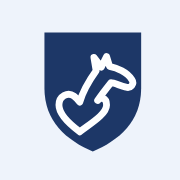
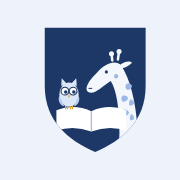
New crest: owl and giraffe studying a book together on a navy shield
Replaces the heart/one-line giraffe design entirely.
- public/crest.svg (shown in the header via Logo.tsx), public/logo.svg (crest + wordmark)
- Favicon and apple icon: same scene without the star and page lines

Claude-Session: https://claude.ai/code/session_01GjeEBdYYyQFWaafFuKonbj

diff --git a/app/components/Logo.tsx b/app/components/Logo.tsx
@@ -1,51 +1,9 @@
+import Image from "next/image";
+
 /**
- * The app's crest: a navy shield with a one-line giraffe (its neck flows into a heart)
- * and a small owl perched against its neck. Empathy and learning, university style.
- * Colours are fixed (navy shield), so it reads the same in light and dark mode.
+ * The app's crest: a navy university shield where an owl and a giraffe study an open book together.
+ * The artwork lives in public/crest.svg (full logo with wordmark: public/logo.svg).
  */
-export default function Logo({ className = "h-10 w-auto" }: { className?: string }) {
-  return (
-    <svg viewBox="0 0 120 140" className={className} aria-hidden>
-      <path d="M8 8 H112 V68 C112 104 88 124 60 136 C32 124 8 104 8 68 Z" fill="#1d3767" />
-      <path
-        d="M14 14 H106 V68 C106 100 84 118 60 129 C36 118 14 100 14 68 Z"
-        fill="none"
-        stroke="#9db8e6"
-        strokeWidth={1.4}
-      />
-      <g
-        transform="translate(18 32.8) scale(1.4)"
-        fill="none"
-        stroke="#ffffff"
-        strokeWidth={2.9}
-        strokeLinecap="round"
-        strokeLinejoin="round"
-      >
-        <path d="M20 58 C12 52 6 46 6 40 C6 34 12 31 16 34 C18 35.5 20 38 20 38 C22 31 26 24 31 17 C31 11 31 8 32 6 C33 4 36 5 35 8 C34.5 10 35 12 36 13 C37 10 38 7 40 7 C42 7 42 10 40 13 C45 14 52 18 55 23 C57 26 54 29 51 28 C47 27 43 25 41 25 C37 30 34 34 32 37 C34 34.5 38 35 38 40 C38 46 28 52 20 58" />
-        <circle cx="43" cy="18" r="1.5" fill="#ffffff" stroke="none" />
-      </g>
-      <g transform="translate(48.5 58)">
-        <path d="M-7 -9 L-6.5 -16 L-2 -11 Z M7 -9 L6.5 -16 L2 -11 Z" fill="#dbe7f8" />
-        <ellipse cx="0" cy="0" rx="9" ry="11.5" fill="#dbe7f8" />
-        <circle cx="-3.9" cy="-3.2" r="3.7" fill="#ffffff" stroke="#1d3767" strokeWidth={1.1} />
-        <circle cx="3.9" cy="-3.2" r="3.7" fill="#ffffff" stroke="#1d3767" strokeWidth={1.1} />
-        <circle cx="-3.6" cy="-3" r="1.6" fill="#1d3767" />
-        <circle cx="3.6" cy="-3" r="1.6" fill="#1d3767" />
-        <path d="M-1.3 0.6 L1.3 0.6 L0 3.4 Z" fill="#1d3767" />
-        <path
-          d="M-4 5 Q0 8 4 5 M-3 8.2 Q0 10.6 3 8.2"
-          fill="none"
-          stroke="#1d3767"
-          strokeWidth={0.9}
-          strokeLinecap="round"
-        />
-        <path
-          d="M-3.5 11 v2.6 M-1.8 11.3 v2.4 M1.8 11.3 v2.4 M3.5 11 v2.6"
-          stroke="#dbe7f8"
-          strokeWidth={1.3}
-          strokeLinecap="round"
-        />
-      </g>
-    </svg>
-  );
+export default function Logo({ className = "h-11 w-auto" }: { className?: string }) {
+  return <Image src="/crest.svg" alt="" width={120} height={140} unoptimized priority className={className} />;
 }
